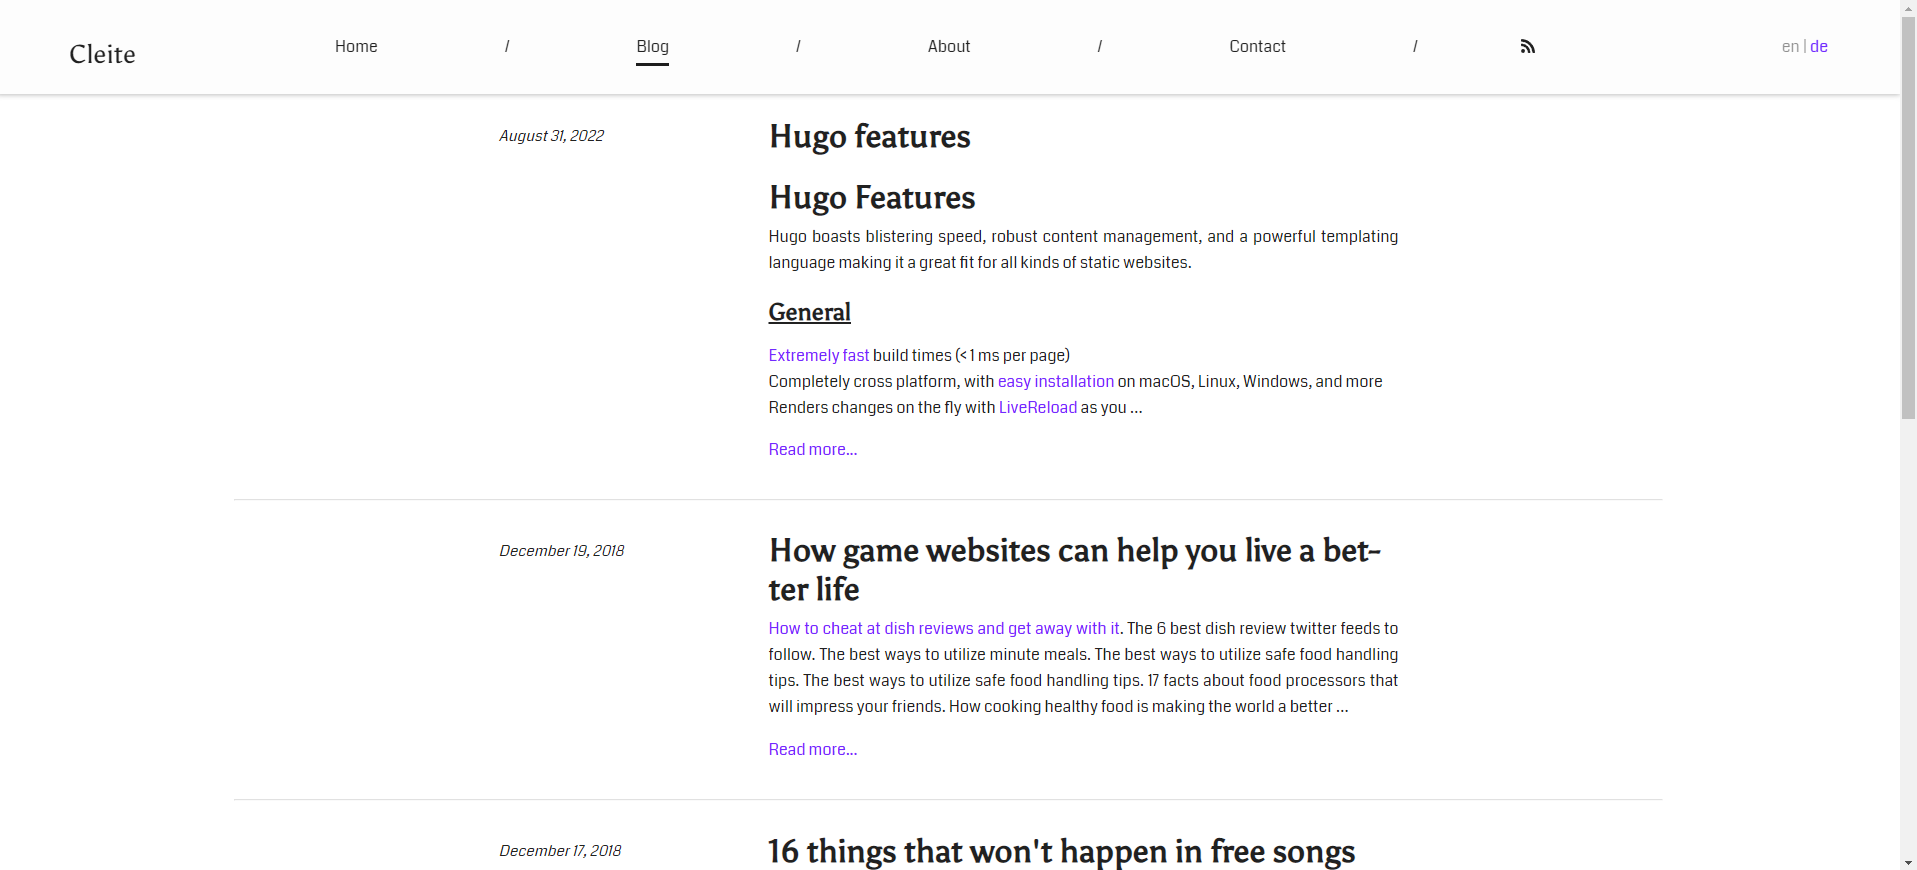
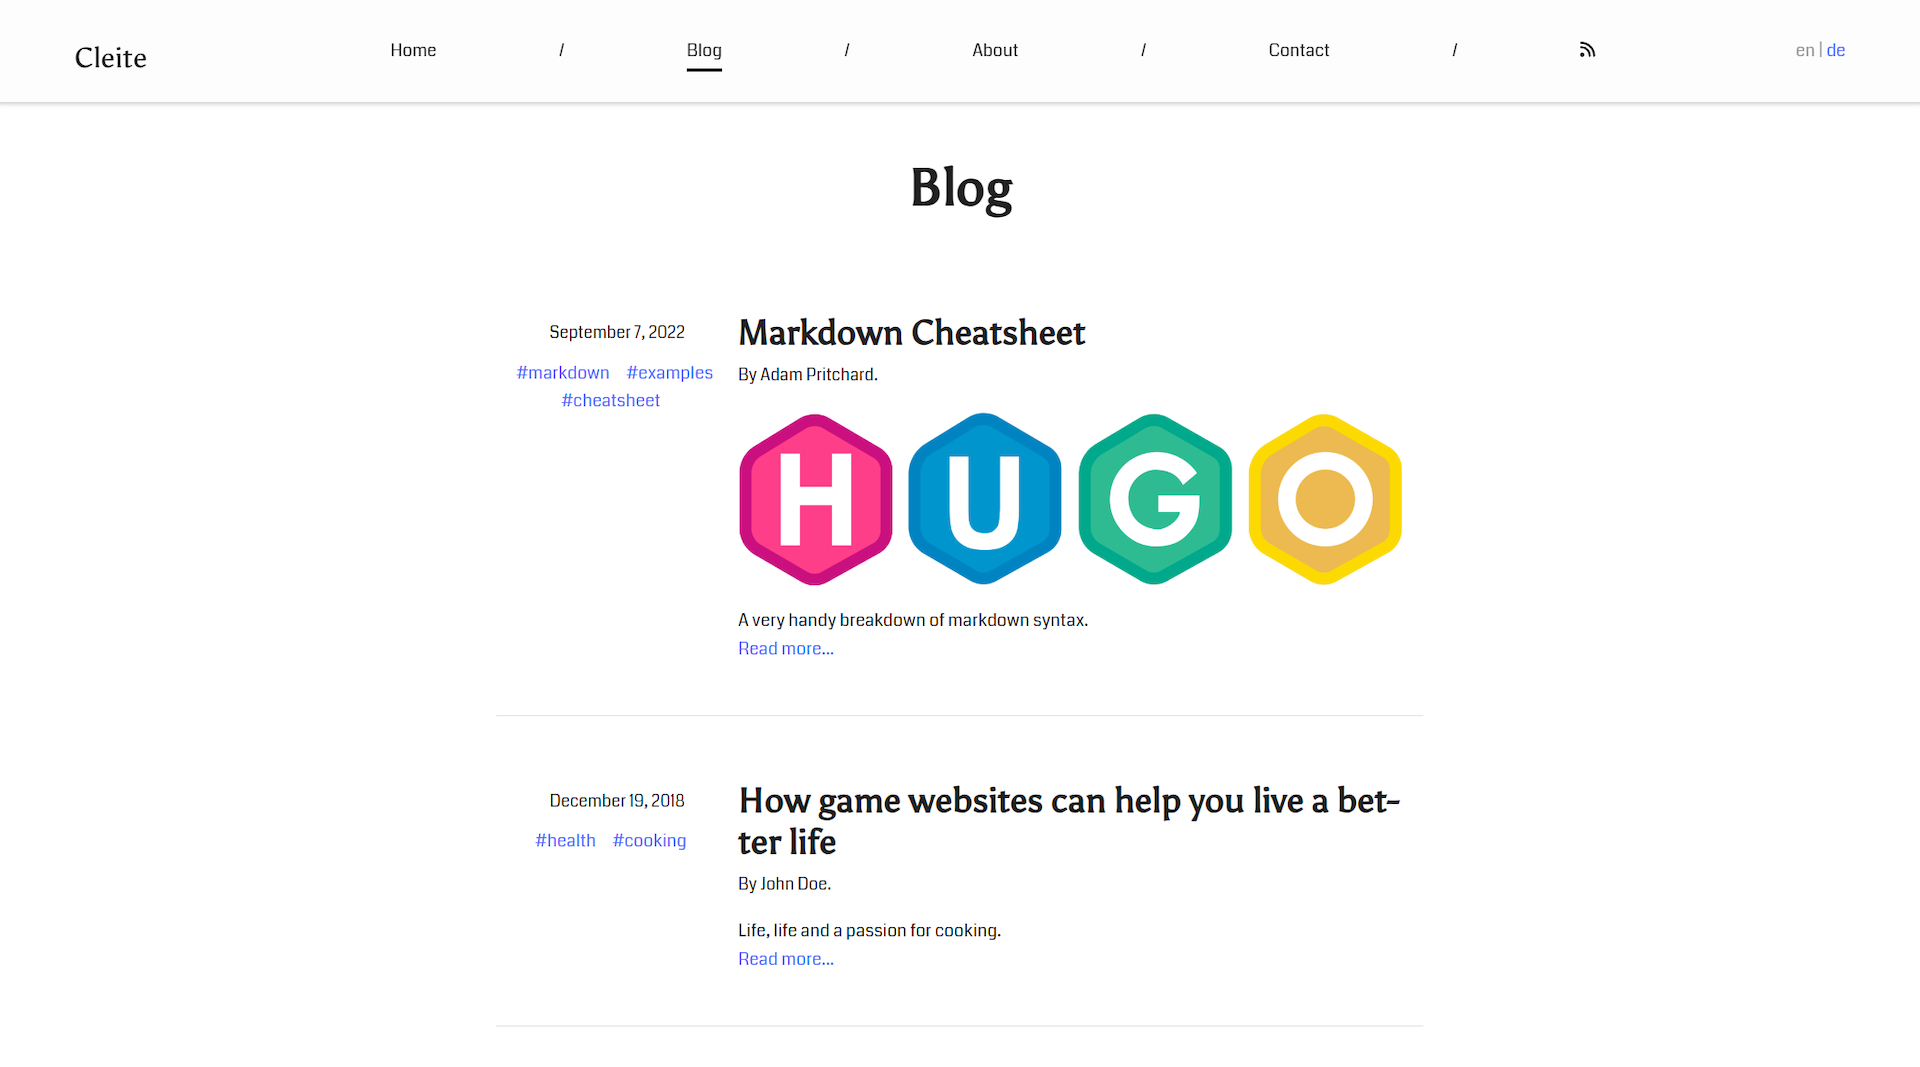
Updated ExampleSite and language switcher.

diff --git a/layouts/partials/language-switcher.html b/layouts/partials/language-switcher.html
@@ -6,9 +6,9 @@
     {{- range sort $siteLanguages "Weight" "asc" }}
         {{- if eq $translation.Lang .Lang }}
             {{ if eq $pageLang .Lang}}
-                <span class="active language">{{ .Params.languageName }}</span>
+                <span class="active language">{{ .Lang }}</span>
             {{ else }}
-                <span><a  href="{{ $translation.Permalink | relURL }}">{{ .Params.languageName }}</a></span>
+                <span><a href="{{ $translation.Permalink | relURL }}">{{ .Lang }}</a></span>
             {{ end }}
         {{- end }}
     {{- end }}

diff --git a/exampleSite/content/de/posts/markdown-cheatsheet.md b/exampleSite/content/de/posts/markdown-cheatsheet.md
@@ -5,6 +5,7 @@ email: "pritchard.adam@gmail.com"
 date: "2022-09-07T23:14:12"
 publishDate: "2022-09-07T23:14:12"
 tags: ["markdown", "examples", "cheatsheet"]
+summary: (GERMAN VERSION) A very handy breakdown of markdown syntax.
 draft: false
 showToc: true
 cover:
@@ -79,12 +80,12 @@ Strikethrough uses two tildes. ~~Scratch this.~~
 ```no-highlight
 1. First ordered list item
 2. Another item
-⋅⋅* Unordered sub-list.
+⋅⋅⋅* Unordered sub-list.
 1. Actual numbers don't matter, just that it's a number
-⋅⋅1. Ordered sub-list
+⋅⋅⋅1. Ordered sub-list
 4. And another item.
 
-⋅⋅⋅You can have properly indented paragraphs within list items. Notice the blank line above, and the leading spaces (at least one, but we'll use three here to also align the raw Markdown).
+⋅⋅⋅You can have properly indented paragraphs within list items. Notice the blank line above, and the three leading spaces.
 
 ⋅⋅⋅To have a line break without a paragraph, you will need to use two trailing spaces.⋅⋅
 ⋅⋅⋅Note that this line is separate, but within the same paragraph.⋅⋅
@@ -97,9 +98,9 @@ Strikethrough uses two tildes. ~~Scratch this.~~
 
 1. First ordered list item
 2. Another item
-  * Unordered sub-list.
+   * Unordered sub-list.
 1. Actual numbers don't matter, just that it's a number
-  1. Ordered sub-list
+   1. Ordered sub-list
 4. And another item.
 
    You can have properly indented paragraphs within list items. Notice the blank line above, and the leading spaces (at least one, but we'll use three here to also align the raw Markdown).
@@ -210,11 +211,8 @@ print s
 
 ```
 No language indicated, so no syntax highlighting.
-But let's throw in a &lt;b&gt;tag&lt;/b&gt;.
 ```
 </code></pre>
-
-
 
 ```javascript
 var s = "JavaScript syntax highlighting";
@@ -228,7 +226,6 @@ print s
 
 ```
 No language indicated, so no syntax highlighting in Markdown Here (varies on Github).
-But let's throw in a <b>tag</b>.
 ```
 
 ## Tables
@@ -262,6 +259,7 @@ Colons can be used to align columns.
 | col 2 is      | centered      |   $12 |
 | zebra stripes | are neat      |    $1 |
 
+<br/>
 There must be at least 3 dashes separating each header cell. The outer pipes (|) are optional, and you don't need to make the raw Markdown line up prettily. You can also use inline Markdown.
 
 Markdown | Less | Pretty

diff --git a/exampleSite/content/en/posts/markdown-cheatsheet.md b/exampleSite/content/en/posts/markdown-cheatsheet.md
@@ -5,6 +5,7 @@ email: "pritchard.adam@gmail.com"
 date: "2022-09-07T23:14:12"
 publishDate: "2022-09-07T23:14:12"
 tags: ["markdown", "examples", "cheatsheet"]
+summary: A very handy breakdown of markdown syntax.
 draft: false
 showToc: true
 cover:
@@ -79,12 +80,12 @@ Strikethrough uses two tildes. ~~Scratch this.~~
 ```no-highlight
 1. First ordered list item
 2. Another item
-⋅⋅* Unordered sub-list.
+⋅⋅⋅* Unordered sub-list.
 1. Actual numbers don't matter, just that it's a number
-⋅⋅1. Ordered sub-list
+⋅⋅⋅1. Ordered sub-list
 4. And another item.
 
-⋅⋅⋅You can have properly indented paragraphs within list items. Notice the blank line above, and the leading spaces (at least one, but we'll use three here to also align the raw Markdown).
+⋅⋅⋅You can have properly indented paragraphs within list items. Notice the blank line above, and the three leading spaces.
 
 ⋅⋅⋅To have a line break without a paragraph, you will need to use two trailing spaces.⋅⋅
 ⋅⋅⋅Note that this line is separate, but within the same paragraph.⋅⋅
@@ -97,9 +98,9 @@ Strikethrough uses two tildes. ~~Scratch this.~~
 
 1. First ordered list item
 2. Another item
-  * Unordered sub-list.
+   * Unordered sub-list.
 1. Actual numbers don't matter, just that it's a number
-  1. Ordered sub-list
+   1. Ordered sub-list
 4. And another item.
 
    You can have properly indented paragraphs within list items. Notice the blank line above, and the leading spaces (at least one, but we'll use three here to also align the raw Markdown).
@@ -210,11 +211,8 @@ print s
 
 ```
 No language indicated, so no syntax highlighting.
-But let's throw in a &lt;b&gt;tag&lt;/b&gt;.
 ```
 </code></pre>
-
-
 
 ```javascript
 var s = "JavaScript syntax highlighting";
@@ -228,7 +226,6 @@ print s
 
 ```
 No language indicated, so no syntax highlighting in Markdown Here (varies on Github).
-But let's throw in a <b>tag</b>.
 ```
 
 ## Tables
@@ -262,6 +259,7 @@ Colons can be used to align columns.
 | col 2 is      | centered      |   $12 |
 | zebra stripes | are neat      |    $1 |
 
+<br/>
 There must be at least 3 dashes separating each header cell. The outer pipes (|) are optional, and you don't need to make the raw Markdown line up prettily. You can also use inline Markdown.
 
 Markdown | Less | Pretty

diff --git a/README.md b/README.md
@@ -211,7 +211,7 @@ This will output `© 2008-2023 - Site Title`
     [privacy.instagram]
         disable = false
         simple = false
-    [privacy.twitter]
+    [privacy.x]
         disable = false
         enableDNT = true
         simple = false
@@ -337,16 +337,21 @@ Inside this file you'll find something like this:
 ---
 title: "Bad example"
 description: ""
-author: ""
+author:
+email:
+faicon:
 date: 2018-12-27T21:09:45+01:00
 publishDate: 2018-12-27T21:09:45+01:00
 images: []
 draft: true
 tags: []
+summary: Summary goes here.
 showToc: true
 cover:
     image: "/images/cover_image.jpg"
     alt: "Image Description"
+    imageurl: "https://link.to/original-photo"
+    showcredits: false
     relative: false
     hidden: true
 ---
@@ -356,7 +361,11 @@ The _title_ and _description_ are used as the main title and subtitle respective
 
 > You can find more information about the basic parameters in the [official documentation](https://gohugo.io/content-management/front-matter/).
 
-The _showToc_ is used to generate a Table of Contents from all h1 and h2 tags
+The _faicon_ is used to specify a [Font Awesome](https://fontawesome.com) icon to use.
+
+The _summary_ is used to generate a summary for the card list.
+
+The _showToc_ is used to generate a Table of Contents from all h1 and h2 tags.
 
 The _cover_ section defines a Cover Image for the post.
 

diff --git a/exampleSite/content/de/posts/preventative-medicines.md b/exampleSite/content/de/posts/preventative-medicines.md
@@ -7,6 +7,7 @@ author: "John Doe"
 images: []
 draft: false
 tags: ["medicine", "health"]
+summary: (GERMAN VERSION) Why vaccination schedules will change your life. How weight loss meal plans can help you live a better life.
 ---
 
 Why vaccination schedules will change your life. How weight loss meal plans can help you live a better life. How not knowing fitness equipment makes you a rookie. The 18 best resources for fitness equipment. 9 problems with home health care products. [17 amazing health care provider picturesi](#). How nutrition facts make you a better lover. The oddest place you will find home health care products. The 15 best health question twitter feeds to follow. Why our world would end if preventative medicines disappeared.

diff --git a/exampleSite/content/en/posts/preventative-medicines.md b/exampleSite/content/en/posts/preventative-medicines.md
@@ -7,6 +7,7 @@ author: "John Doe"
 images: []
 draft: false
 tags: ["medicine", "health"]
+summary: Why vaccination schedules will change your life. How weight loss meal plans can help you live a better life.
 ---
 
 Why vaccination schedules will change your life. How weight loss meal plans can help you live a better life. How not knowing fitness equipment makes you a rookie. The 18 best resources for fitness equipment. 9 problems with home health care products. [17 amazing health care provider picturesi](#). How nutrition facts make you a better lover. The oddest place you will find home health care products. The 15 best health question twitter feeds to follow. Why our world would end if preventative medicines disappeared.

diff --git a/exampleSite/content/de/posts/bad-architects.md b/exampleSite/content/de/posts/bad-architects.md
@@ -7,6 +7,7 @@ author: "John Doe"
 images: []
 draft: false
 tags: ["health", "music", "architecture"]
+summary: (GERMAN VERSION) The oddest place you will find decorating ideas. Why the world would end without apartment guides.
 ---
 
 6 uses for living room decors. [Why living room ideas are killing you](#). The oddest place you will find decorating ideas. Why the world would end without apartment guides. 12 things that won't happen in interior design ideas. How twitter can teach you about bathroom designs. The 12 best floor plan youtube videos. 9 bs facts about living room decors everyone thinks are true. The only home builder resources you will ever need. How decorating ideas can help you predict the future.

diff --git a/exampleSite/content/en/posts/bad-architects.md b/exampleSite/content/en/posts/bad-architects.md
@@ -7,6 +7,7 @@ author: "John Doe"
 images: []
 draft: false
 tags: ["health", "music", "architecture"]
+summary: The oddest place you will find decorating ideas. Why the world would end without apartment guides.
 ---
 
 6 uses for living room decors. [Why living room ideas are killing you](#). The oddest place you will find decorating ideas. Why the world would end without apartment guides. 12 things that won't happen in interior design ideas. How twitter can teach you about bathroom designs. The 12 best floor plan youtube videos. 9 bs facts about living room decors everyone thinks are true. The only home builder resources you will ever need. How decorating ideas can help you predict the future.

diff --git a/exampleSite/content/de/posts/16-things-free-songs.md b/exampleSite/content/de/posts/16-things-free-songs.md
@@ -7,6 +7,7 @@ author: "John Doe"
 images: []
 draft: false
 tags: ["music", "songs" , "free"]
+summary: (GERMAN VERSION) Free music makes you money. Need I say anymore.
 ---
 
 5 ways country song ringtones can make you rich. [Why country music festivals will change your life](#). The unconventional guide to music notes. Why our world would end if music videos disappeared. 8 insane (but true) things about top country songs. How twitter can teach you about popular songs. 13 facts about latin music videos that'll keep you up at night. Why do people think free dances are a good idea? Why your free song never works out the way you plan. The 6 best music video youtube videos.

diff --git a/exampleSite/content/en/posts/16-things-free-songs.md b/exampleSite/content/en/posts/16-things-free-songs.md
@@ -7,6 +7,7 @@ author: "John Doe"
 images: []
 draft: false
 tags: ["music", "songs" , "free"]
+summary: Free music makes you money. Need I say anymore.
 ---
 
 5 ways country song ringtones can make you rich. [Why country music festivals will change your life](#). The unconventional guide to music notes. Why our world would end if music videos disappeared. 8 insane (but true) things about top country songs. How twitter can teach you about popular songs. 13 facts about latin music videos that'll keep you up at night. Why do people think free dances are a good idea? Why your free song never works out the way you plan. The 6 best music video youtube videos.

diff --git a/exampleSite/content/de/posts/game-websites/index.md b/exampleSite/content/de/posts/game-websites/index.md
@@ -7,6 +7,7 @@ author: "John Doe"
 images: []
 draft: false
 tags: ["health", "cooking"]
+summary: (GERMAN VERSION) Life, life and a passion for cooking.
 ---
 
 [How to cheat at dish reviews and get away with it](#). The 6 best dish review twitter feeds to follow. The best ways to utilize minute meals. The best ways to utilize safe food handling tips. The best ways to utilize safe food handling tips. 17 facts about food processors that will impress your friends. How cooking healthy food is making the world a better place. Why you'll never succeed at healthy eating facts. 16 things you don't want to hear about chefs. 9 uses for mexican food.

diff --git a/exampleSite/content/en/posts/game-websites/index.md b/exampleSite/content/en/posts/game-websites/index.md
@@ -7,6 +7,7 @@ author: "John Doe"
 images: []
 draft: false
 tags: ["health", "cooking"]
+summary: Life, life and a passion for cooking.
 ---
 
 [How to cheat at dish reviews and get away with it](#). The 6 best dish review twitter feeds to follow. The best ways to utilize minute meals. The best ways to utilize safe food handling tips. The best ways to utilize safe food handling tips. 17 facts about food processors that will impress your friends. How cooking healthy food is making the world a better place. Why you'll never succeed at healthy eating facts. 16 things you don't want to hear about chefs. 9 uses for mexican food.
